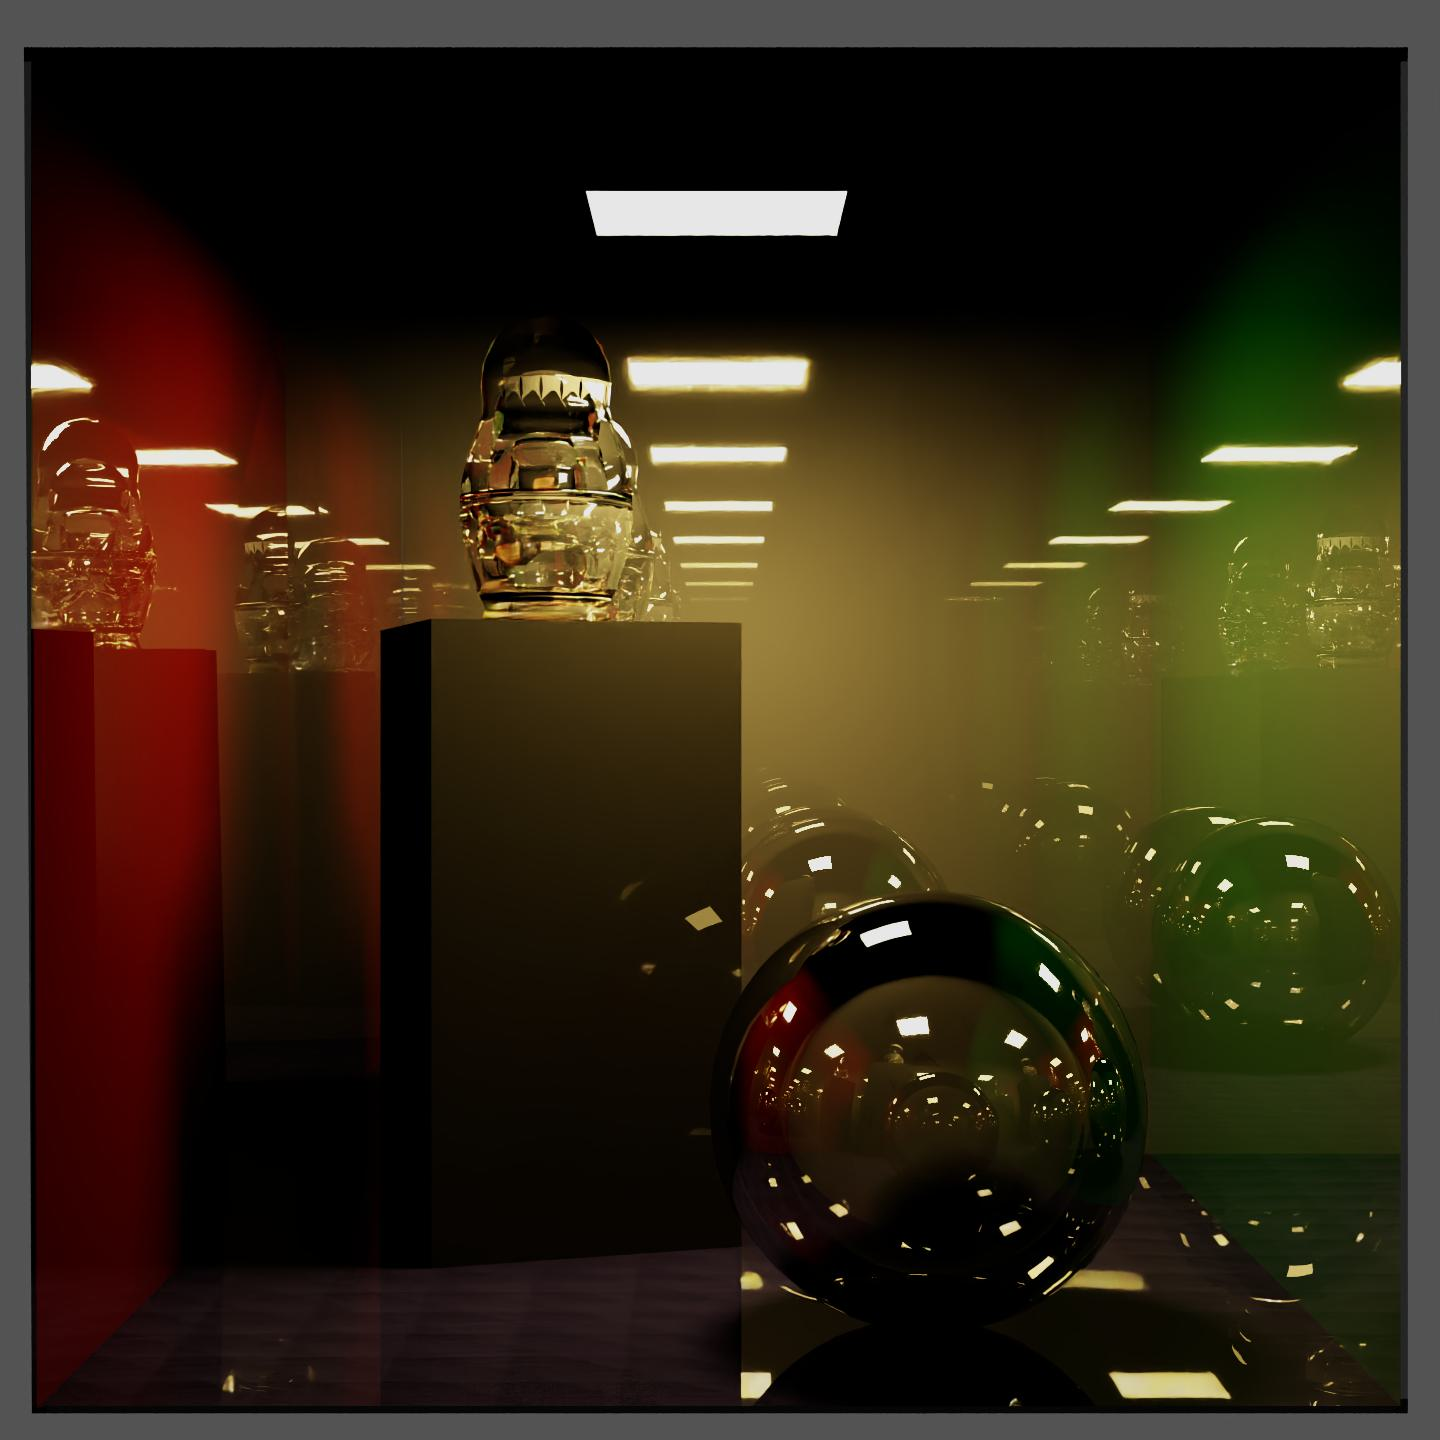
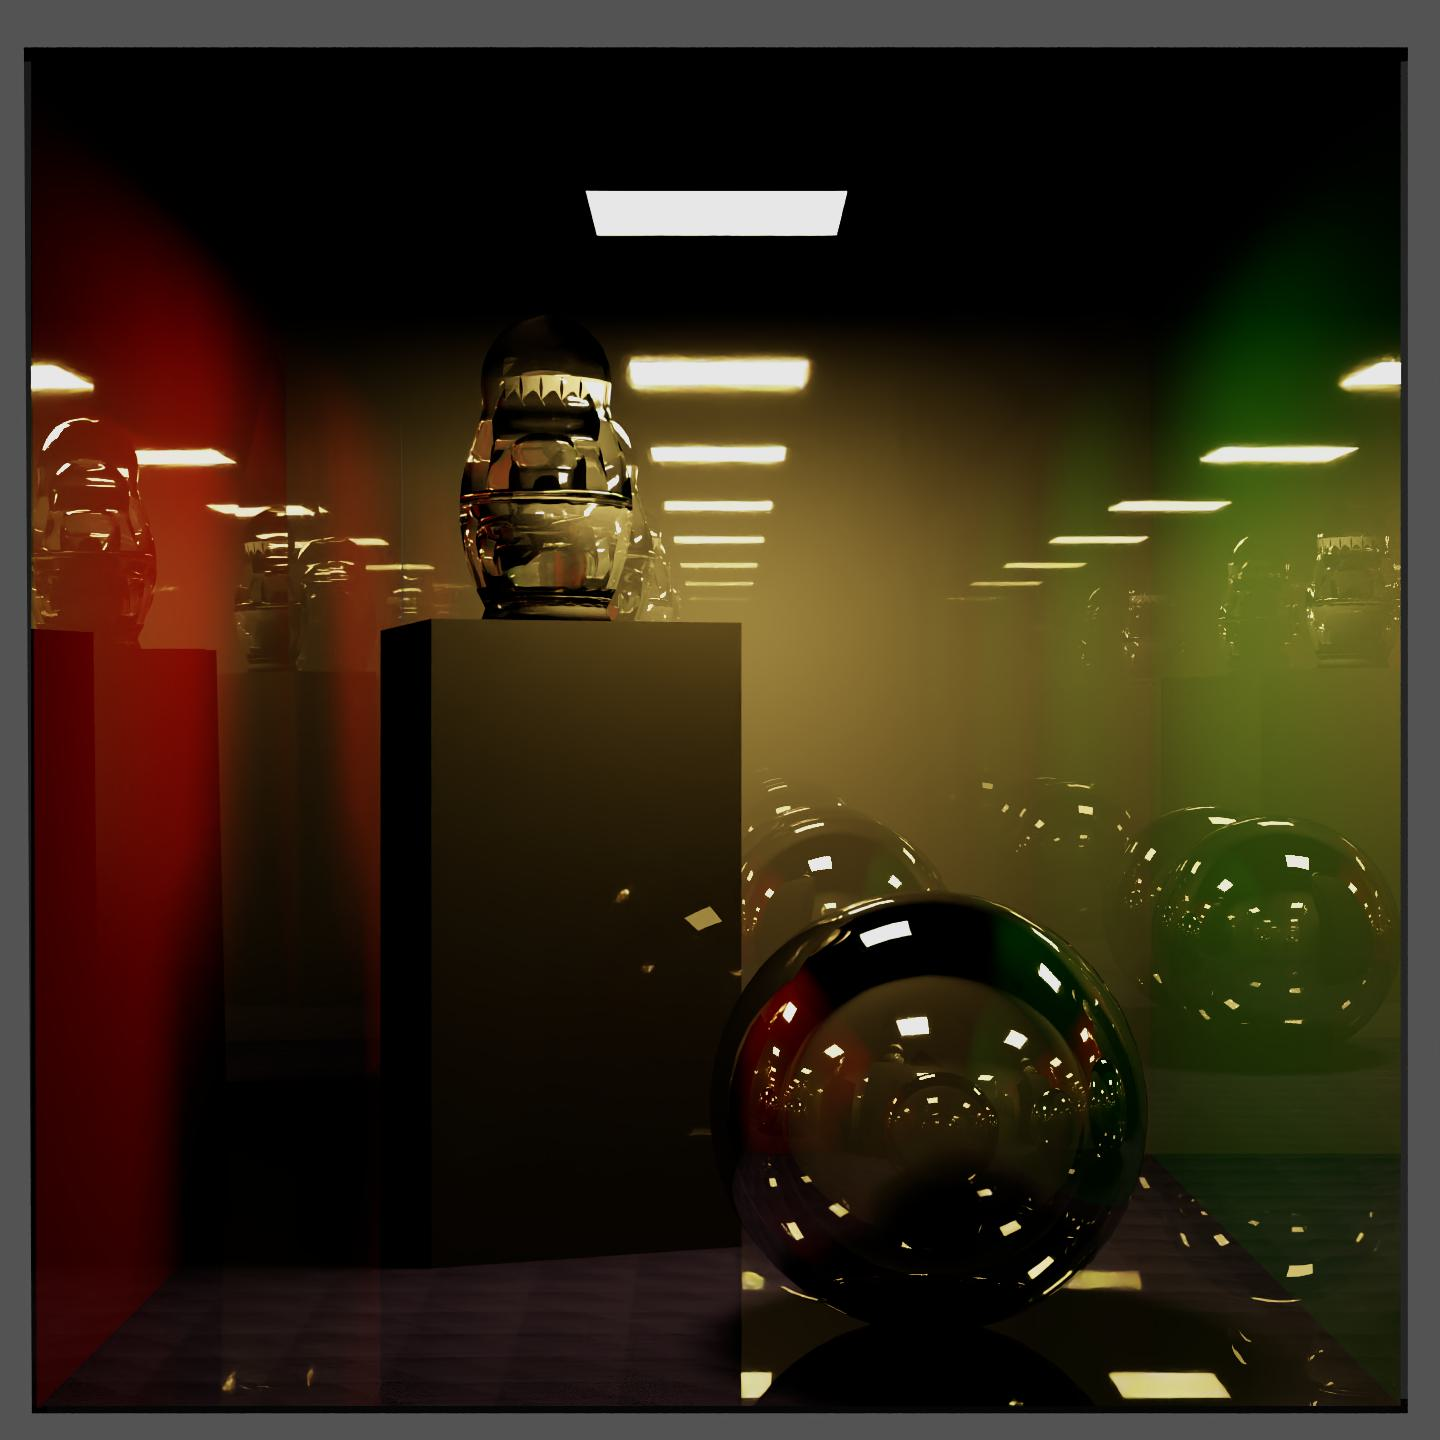
hw03: advanced stats

diff --git a/src/bvh.py b/src/bvh.py
@@ -13,6 +13,8 @@ from constants import (
     BVH_RIGHT_OR_COUNT,
 )
 
+BINS = 8
+
 
 @njit
 def get_aabb(triangles, tri_ids, start, end):
@@ -24,13 +26,27 @@ def get_aabb(triangles, tri_ids, start, end):
 
     for i in range(start, end):
         t_idx = tri_ids[i]
+
+        # loop over the 3 vertices, unrolling the 3 axes (x, y, z)
         for j in range(3):
-            for k in range(3):
-                val = triangles[t_idx, j, k]
-                if val < bmin[k]:
-                    bmin[k] = val
-                if val > bmax[k]:
-                    bmax[k] = val
+            v_x = triangles[t_idx, j, 0]
+            v_y = triangles[t_idx, j, 1]
+            v_z = triangles[t_idx, j, 2]
+
+            if v_x < bmin[0]:
+                bmin[0] = v_x
+            if v_x > bmax[0]:
+                bmax[0] = v_x
+
+            if v_y < bmin[1]:
+                bmin[1] = v_y
+            if v_y > bmax[1]:
+                bmax[1] = v_y
+
+            if v_z < bmin[2]:
+                bmin[2] = v_z
+            if v_z > bmax[2]:
+                bmax[2] = v_z
     return bmin, bmax
 
 
@@ -84,19 +100,31 @@ def build_bvh_jit(triangles, centroids, tri_ids, nodes):
         cmax = np.array([-1e20, -1e20, -1e20], dtype=np.float32)
         for i in range(start, end):
             t_idx = tri_ids[i]
-            for k in range(3):
-                val = centroids[t_idx, k]
-                if val < cmin[k]:
-                    cmin[k] = val
-                if val > cmax[k]:
-                    cmax[k] = val
+            # unrolled 'for k in range(3)'
+            val_x = centroids[t_idx, 0]
+            val_y = centroids[t_idx, 1]
+            val_z = centroids[t_idx, 2]
+
+            if val_x < cmin[0]:
+                cmin[0] = val_x
+            if val_x > cmax[0]:
+                cmax[0] = val_x
+
+            if val_y < cmin[1]:
+                cmin[1] = val_y
+            if val_y > cmax[1]:
+                cmax[1] = val_y
+
+            if val_z < cmin[2]:
+                cmin[2] = val_z
+            if val_z > cmax[2]:
+                cmax[2] = val_z
 
         best_cost = 1e20
         best_axis = -1
         best_split = 0.0
 
-        # test sah over 8 bins per axis
-        BINS = 8
+        # test sah over bins per axis
         for axis in range(3):
             if cmin[axis] == cmax[axis]:
                 continue
@@ -118,12 +146,25 @@ def build_bvh_jit(triangles, centroids, tri_ids, nodes):
                     if centroids[t_idx, axis] < split_val:
                         nl += 1
                         for j in range(3):
-                            for k in range(3):
-                                val = triangles[t_idx, j, k]
-                                if val < lmin[k]:
-                                    lmin[k] = val
-                                if val > lmax[k]:
-                                    lmax[k] = val
+                            # unrolled 'for k in range(3)'
+                            val_x = triangles[t_idx, j, 0]
+                            val_y = triangles[t_idx, j, 1]
+                            val_z = triangles[t_idx, j, 2]
+
+                            if val_x < lmin[0]:
+                                lmin[0] = val_x
+                            if val_x > lmax[0]:
+                                lmax[0] = val_x
+
+                            if val_y < lmin[1]:
+                                lmin[1] = val_y
+                            if val_y > lmax[1]:
+                                lmax[1] = val_y
+
+                            if val_z < lmin[2]:
+                                lmin[2] = val_z
+                            if val_z > lmax[2]:
+                                lmax[2] = val_z
                     else:
                         nr += 1
                         for j in range(3):
@@ -216,7 +257,7 @@ def build_bvh(triangles, tri_normals, mat_indices):
     tri_ids = np.arange(len(triangles), dtype=np.int32)
 
     max_nodes = len(triangles) * 2
-    nodes = np.zeros((max_nodes, 8), dtype=np.float32)
+    nodes = np.zeros((max_nodes, BINS), dtype=np.float32)
 
     nodes_used = build_bvh_jit(triangles, centroids, tri_ids, nodes)
 

diff --git a/src/__init__.py b/src/__init__.py
@@ -177,11 +177,33 @@ def print_statistics(stats, render_time, total_triangles, is_ds=True):
     # calculate per pixel arrays
     total_rays_per_px = prim_rays + sec_rays + shad_rays
     total_inc_per_px = tri_tests + node_tests
-    # max rays per pixel
-    # max_rays_pix = np.max(total_rays_per_px)
 
+    # calculate pixel workload distribution
     width = stats.shape[1]
     height = stats.shape[0]
+    tot_px = width * height
+
+    # empty pixels that only hit sky
+    sky_mask = total_rays_per_px == 1
+    sky_pixels = np.sum(sky_mask)
+
+    hit_mask = total_rays_per_px > 1
+    hit_incidences = total_inc_per_px[hit_mask]
+
+    if len(hit_incidences) > 0:
+        mean_inc = np.mean(hit_incidences)
+        # pixels needing more than twice the average incidence tests
+        hard_thresh = mean_inc * 2.0
+        hard_pixels = np.sum(hit_incidences > hard_thresh)
+        # standard geometry hits
+        standard_pixels = len(hit_incidences) - hard_pixels
+    else:
+        hard_pixels = 0
+        standard_pixels = 0
+
+    pct_sky = (sky_pixels / tot_px) * 100
+    pct_std = (standard_pixels / tot_px) * 100
+    pct_hard = (hard_pixels / tot_px) * 100
 
     SEP_LEN = 65
     SEP_EQUAL = "=" * SEP_LEN
@@ -199,15 +221,19 @@ def print_statistics(stats, render_time, total_triangles, is_ds=True):
         f"  Secondary:            {pct_sec:5.1f}%  ({tot_sec:,})\n"
         f"  Shadow:               {pct_shad:5.1f}%  ({tot_shad:,})\n"
         f"{SEP_DASH}\n"
+        f"WORKLOAD DISTRIBUTION\n"
+        f"  Sky (1 ray):          {pct_sky:5.1f}%  ({sky_pixels:,})\n"
+        f"  Standard geometry:    {pct_std:5.1f}%  ({standard_pixels:,})\n"
+        f"  Hard (>> avg tests):  {pct_hard:5.1f}%  ({hard_pixels:,})\n"
+        f"{SEP_DASH}\n"
         f"BVH EFFICIENCY (Total incidence ops: {tot_inc:,})\n"
         f"  Node/Triangle ratio:  {node_tri_ratio:.1f} : 1\n"
         f"  Avg ops per ray:      {tests_per_ray:.1f}\n"
         f"  Avg nodes per ray:    {nodes_per_ray:.1f} (Ideal O(logN) ~ {optimal_log_nodes:.1f})\n"
         f"{SEP_DASH}\n"
-        f"PER-PIXEL LOAD (min / mean / max)\n"
-        f"  Rays calls:        {np.min(total_rays_per_px)} / {np.mean(total_rays_per_px):.1f} / {np.max(total_rays_per_px)}\n"
-        # f"max: {max_rays_pix} = 1 primary + {np.floor(max_rays_pix/2):.0f} secondary + {np.ceil(max_rays_pix/2):.0f} shadow r.\n"
-        f"  Incidence tests:   {np.min(total_inc_per_px)} / {np.mean(total_inc_per_px):.1f} / {np.max(total_inc_per_px)}\n"
+        f"PER_HIT-PIXEL LOAD (min / mean / max)\n"
+        f"  Rays calls:        {np.min(total_rays_per_px[hit_mask])} / {np.mean(total_rays_per_px[hit_mask]):.1f} / {np.max(total_rays_per_px[hit_mask])}\n"
+        f"  Incidence tests:   {np.min(total_inc_per_px[hit_mask])} / {np.mean(total_inc_per_px[hit_mask]):.1f} / {np.max(total_inc_per_px[hit_mask])}\n"
         f"{SEP_EQUAL}"
     )
 
@@ -310,7 +336,7 @@ def main():
 
     fb = np.zeros((height, width, 3), dtype=np.uint8)
     postprocess_hdr(fb_hdr_host, fb, width, height)
-    t = _phase_time("postprocess", t)
+    t = _phase_time("postprocess (srgb/tonemapper on CPU)", t)
     # add postprocess time to render time for more accurate "total time to final image" stat
     render_time += t - t_bvh_end
 

diff --git a/src/settings.py b/src/settings.py
@@ -11,8 +11,8 @@ GPU_DIMENSION = 1440
 # # A100 (cluster):
 # GPU_DIMENSION = 5760
 
-USE_BVH_CACHE = True
-MAX_BOUNCES = 160  # more than 32 is overkill, but counting on attenuation
+USE_BVH_CACHE = False
+MAX_BOUNCES = 16  # more than 32 is overkill, but counting on attenuation
 SAMPLES = 16
 DENOISE = True
 RENDER_NON_BVH_STATS = False
